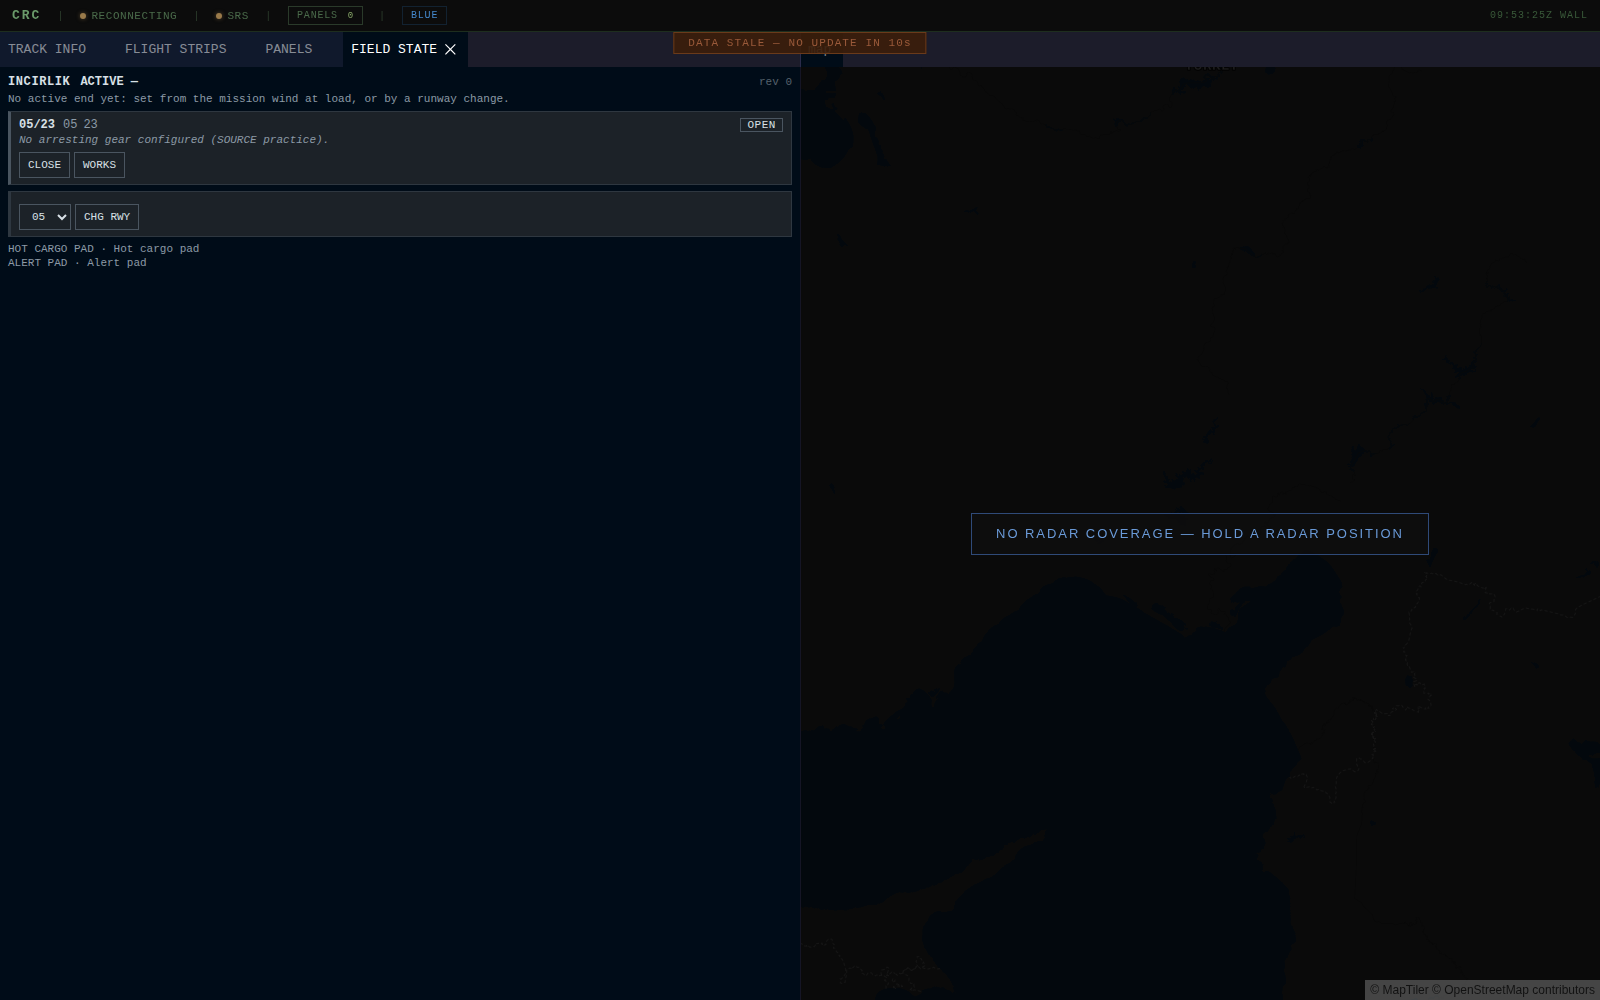
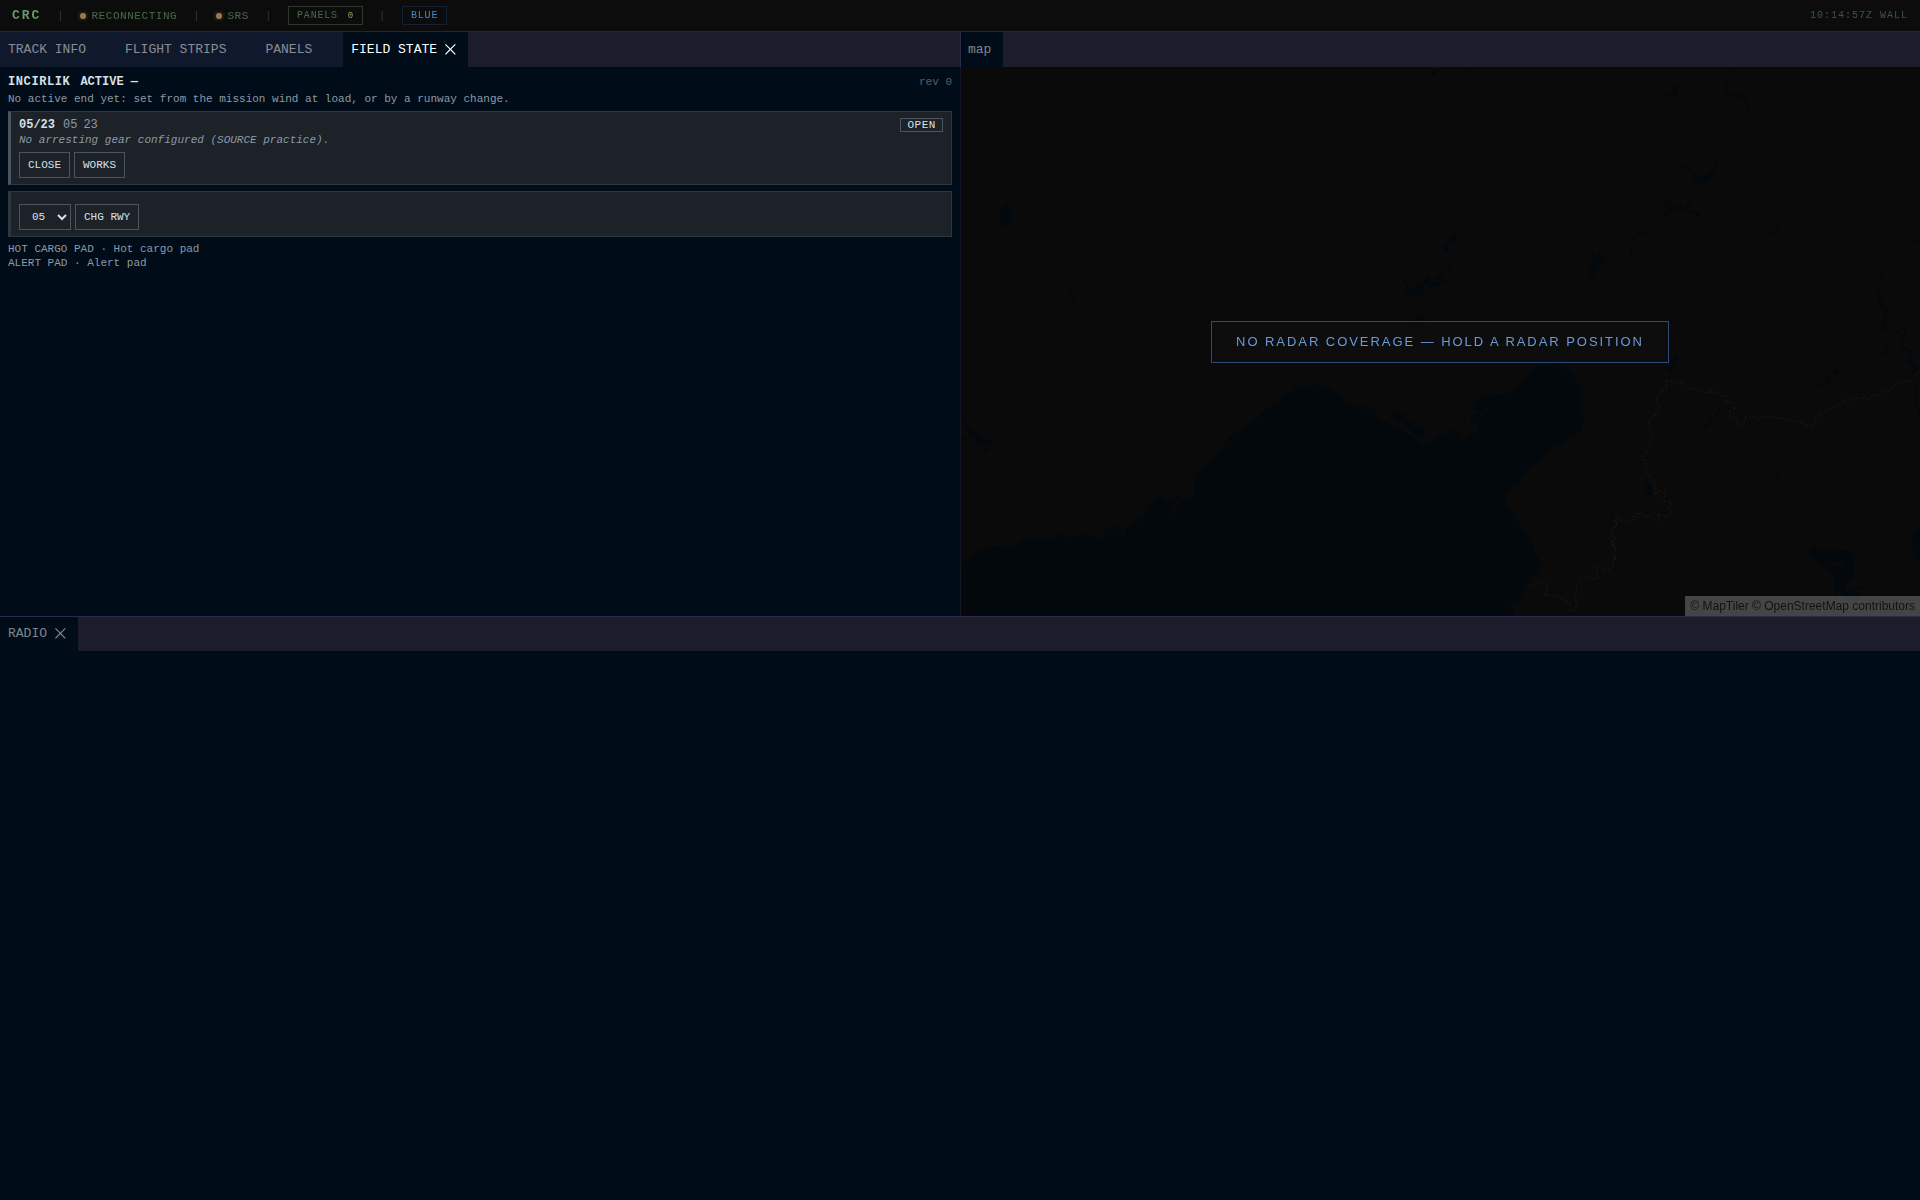
EFSP L1b: the Phase 3 walk in Playwright, green, with screenshots (step 5)

diff --git a/crc-desktop/e2e/field-state.spec.js b/crc-desktop/e2e/field-state.spec.js
@@ -24,7 +24,7 @@ const path = require('path');
 const { test, expect } = require('@playwright/test');
 const { openPanel, stripByCallsign, expectRefusalIsVisible } = require('./helpers/app');
 
-test.describe.configure({ mode: 'serial', timeout: 120000 });
+test.describe.configure({ mode: 'serial', timeout: 240000 });
 
 const SHOTS = path.join(__dirname, '..', '..', 'docs', 'wip', 'L1b');
 const shot = (page, name) => page.screenshot({ path: path.join(SHOTS, `${name}.png`), fullPage: false });
@@ -34,19 +34,29 @@ const RUN = String(Date.now()).slice(-3); // callsigns unique per run, since the
 
 const _contexts = [];
 const _errors = [];
+test.beforeEach(() => { _errors.length = 0; });
 test.afterEach(async () => {
   while (_contexts.length) await _contexts.pop().close().catch(() => {});
   // Positions are released on disconnect; let crc-sync see it before the next test takes them.
   await new Promise((r) => setTimeout(r, 300));
 });
 
+/**
+ * Script errors on any page this test opened. A failed network fetch is not
+ * one: with no DCS and no map key the harness answers tiles and mission data
+ * with 503s, which the browser logs as console errors on every run.
+ */
+function appErrors() {
+  return _errors.flatMap(e => e.consoleErrors).filter(t => !/^Failed to load resource/.test(t));
+}
+
 async function controller(browser, held, name) {
-  const ctx = await browser.newContext({ baseURL: test.info().project.use.baseURL, viewport: { width: 1600, height: 1000 } });
+  const ctx = await browser.newContext({ baseURL: test.info().project.use.baseURL, viewport: { width: 1920, height: 1200 } });
   _contexts.push(ctx);
   const page = await ctx.newPage();
   const { consoleErrors } = await openPanel(page, { held, controller: name });
-  // The radio strip takes half the window and has nothing to do with the field.
-  await page.evaluate(() => toggleDockPanel('radio', false));
+  // The radio strip stays open: closing it makes srs-radio.js throw on every
+  // poll (docs/wip/L1b.md, Findings), which would drown the console check.
   _errors.push({ name, consoleErrors });
   return page;
 }
@@ -71,6 +81,23 @@ async function openFieldPanel(page) {
     await page.locator('#panel-controls .panel-ctrl-label', { hasText: /^FIELD STATE/ }).click();
   }
   await expect(page.locator('#field-state-panel')).toBeVisible();
+}
+
+/**
+ * Puts FIELD STATE in its own column beside the Strip panel, so a controller
+ * (and a screenshot) sees the field and the Strips at once. Also sidesteps
+ * the Strip panel rendering while dockview has it detached behind another tab
+ * of its group (docs/wip/L1b.md, Findings: the arrivals line duplicates).
+ */
+async function besideStrips(page) {
+  await page.evaluate(() => {
+    const p = dock.api.getPanel('fieldState');
+    if (p) dock.api.removePanel(p);
+    dock.addPanel({ id: 'fieldState', component: 'fieldState', title: PANEL_TITLES.fieldState, position: { referencePanel: 'efsp', direction: 'right' } });
+    dock.api.getPanel('efsp').api.setActive();
+  });
+  await expect(page.locator('#field-state-panel')).toBeVisible();
+  await expect(page.locator('#efsp-panel')).toBeVisible();
 }
 
 /** Brings a dock panel to the front of its tab group. */
@@ -151,8 +178,13 @@ async function nla(page, cs, n = 1) {
 
 async function goBay(page, positionId, bayId) {
   await front(page, 'efsp');
-  await page.locator(`#efsp-position-tabs .efsp-position-tab[data-position-id="${positionId}"]`).click();
-  await page.locator(`#efsp-bay-tabs .efsp-bay-tab[data-bay-id="${bayId}"]`).click();
+  // `force`: a tab lit by the arrival flash (docs/adr/0057) animates, and
+  // Playwright would wait for it to be "stable" until the test times out.
+  const pos = page.locator(`#efsp-position-tabs .efsp-position-tab[data-position-id="${positionId}"]`);
+  if (!/\bactive\b/.test(await pos.getAttribute('class') || '')) await pos.click({ force: true });
+  const bay = page.locator(`#efsp-bay-tabs .efsp-bay-tab[data-bay-id="${bayId}"]`);
+  if (!/\bactive\b/.test(await bay.getAttribute('class') || '')) await bay.click({ force: true });
+  await expect(bay).toHaveClass(/\bactive\b/);
 }
 
 const chip = (strip) => strip.locator('.efsp-ind[data-slot="rwy"]');
@@ -186,6 +218,8 @@ test('Phase 3 walk: OPS asks for runway works, TWR suspends, the Strips hold, FI
   await expect(twr.locator('#field-state-panel .field-state-badge')).toHaveText('OPEN');
   await expect(twr.locator('#field-state-panel .field-state-active')).toHaveText(/ACTIVE/);
   await shot(twr, '01-panel-open');
+  await besideStrips(twr);
+  await besideStrips(ops);
 
   // 2. The traffic: a departure taxiing for 05, one queued in 05's rack, an
   // arrival handed to tower for 05, and a hook-equipped arrival on final.
@@ -277,14 +311,14 @@ test('Phase 3 walk: OPS asks for runway works, TWR suspends, the Strips hold, FI
   await shot(twr, '06-reopened');
 
   await dropAll([ops, twr], [DEP_TAXI, DEP_Q, ARR_TWR, ARR_FIN]);
-  expect(_errors.flatMap(e => e.consoleErrors), 'console errors').toEqual([]);
+  expect(appErrors(), 'console errors').toEqual([]);
 });
 
 test('Phase 3 walk: a runway change needs OPS and APP (each a different person), then an inspection; a Strip left in 05\'s rack is told', async ({ browser }) => {
   const twr = await controller(browser, ['TWR'], 'maverick');
   const ops = await controller(browser, ['OPS', 'CD', 'GND'], 'goose');
   const app = await controller(browser, ['APP'], 'iceman');
-  for (const p of [twr, ops, app]) await openFieldPanel(p);
+  for (const p of [twr, ops, app]) { await openFieldPanel(p); await besideStrips(p); }
 
   // Start from 05 active (the harness has no mission wind), by the machinery itself.
   if ((await field(twr)).activeRunway !== '05') {
@@ -350,16 +384,18 @@ test('Phase 3 walk: a runway change needs OPS and APP (each a different person),
   await shot(twr, '09-rejected');
 
   await dropAll([twr, ops], [DEP]);
-  expect(_errors.flatMap(e => e.consoleErrors), 'console errors').toEqual([]);
+  expect(appErrors(), 'console errors').toEqual([]);
 });
 
 test('a reload mid-suspension still shows SUSPENDED (the snapshot carries it); then the field is put back', async ({ browser }) => {
   const twr = await controller(browser, ['TWR', 'OPS'], 'maverick');
   await openFieldPanel(twr);
+  await besideStrips(twr);
   await press(twr, 'BeginRunwayWorks', { positionId: 'TWR' });
   await twr.reload();
   await twr.waitForFunction(() => typeof getEfspFieldState === 'function' && !!getEfspFieldState('INCIRLIK'));
   await openFieldPanel(twr);
+  await besideStrips(twr);
   await front(twr, 'fieldState');
   await expect(twr.locator('#field-state-panel .field-state-badge')).toHaveText('WORKS');
   await expect(twr.locator('#field-state-panel .field-state-suspension')).toHaveText(/^SUSPENDED WORKS by TWR \(maverick\) \d{4}Z$/);
@@ -374,10 +410,11 @@ test('a reload mid-suspension still shows SUSPENDED (the snapshot carries it); t
 test('one controller holding TWR, OPS and APP changes the runway in one self-coordinated input (S-Q24)', async ({ browser }) => {
   const solo = await controller(browser, ['TWR', 'OPS', 'APP'], 'solo');
   await openFieldPanel(solo);
+  await besideStrips(solo);
   await front(solo, 'fieldState');
   await expect(offered(solo, 'SelfCoordinateRunwayChange')).toHaveCount(1);
   const to = (await field(solo)).activeRunway === '23' ? '05' : '23';
-  await solo.locator('#field-state-panel .field-state-actions').filter({ has: offered(solo, 'SelfCoordinateRunwayChange') })
+  await solo.locator('#field-state-panel .field-state-actions').filter({ has: solo.locator('button[data-kind="SelfCoordinateRunwayChange"]') })
     .locator('select.field-state-to-end').last().selectOption(to);
   await press(solo, 'SelfCoordinateRunwayChange', { positionId: 'TWR' });
   const change = (await field(solo)).runwayChange;
@@ -390,5 +427,5 @@ test('one controller holding TWR, OPS and APP changes the runway in one self-coo
   await press(solo, 'CompleteInspection', { positionId: 'OPS' });
   expect((await field(solo)).activeRunway).toBe(to);
   await resetField(solo);
-  expect(_errors.flatMap(e => e.consoleErrors), 'console errors').toEqual([]);
+  expect(appErrors(), 'console errors').toEqual([]);
 });
